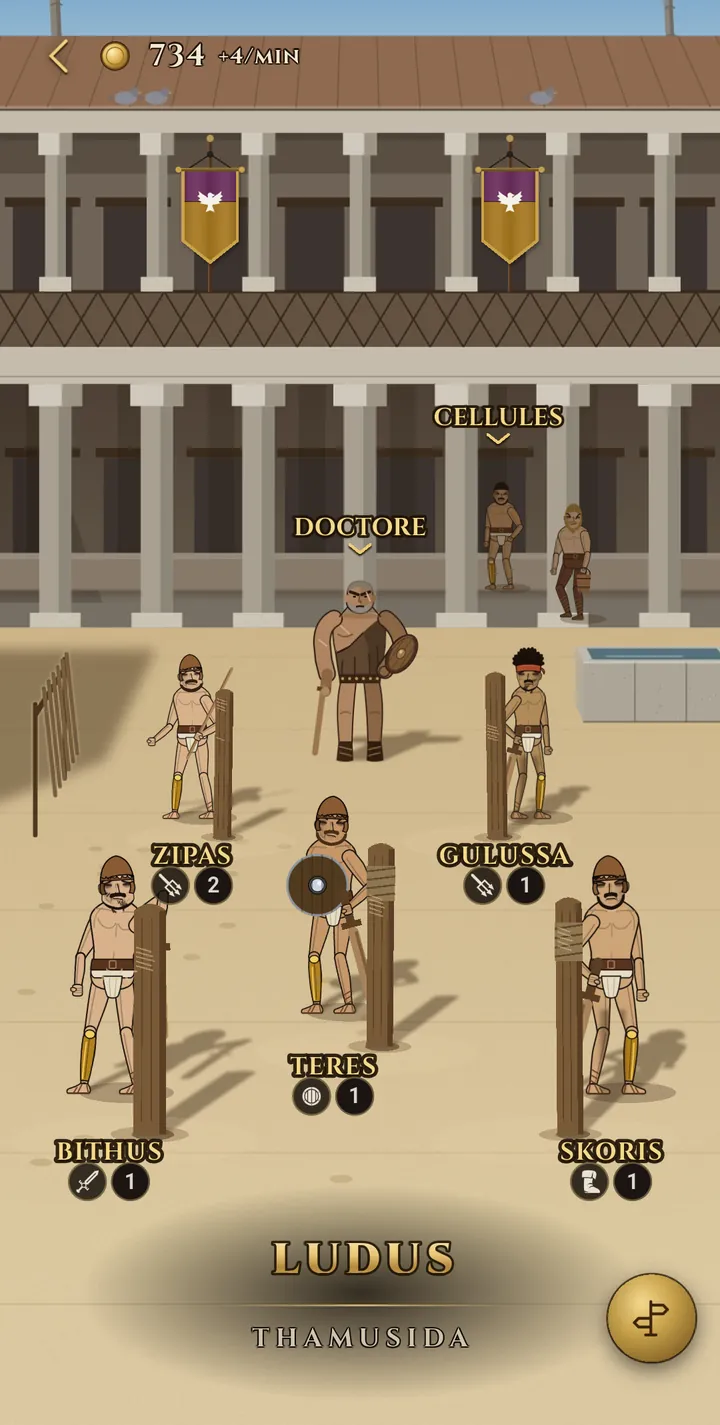
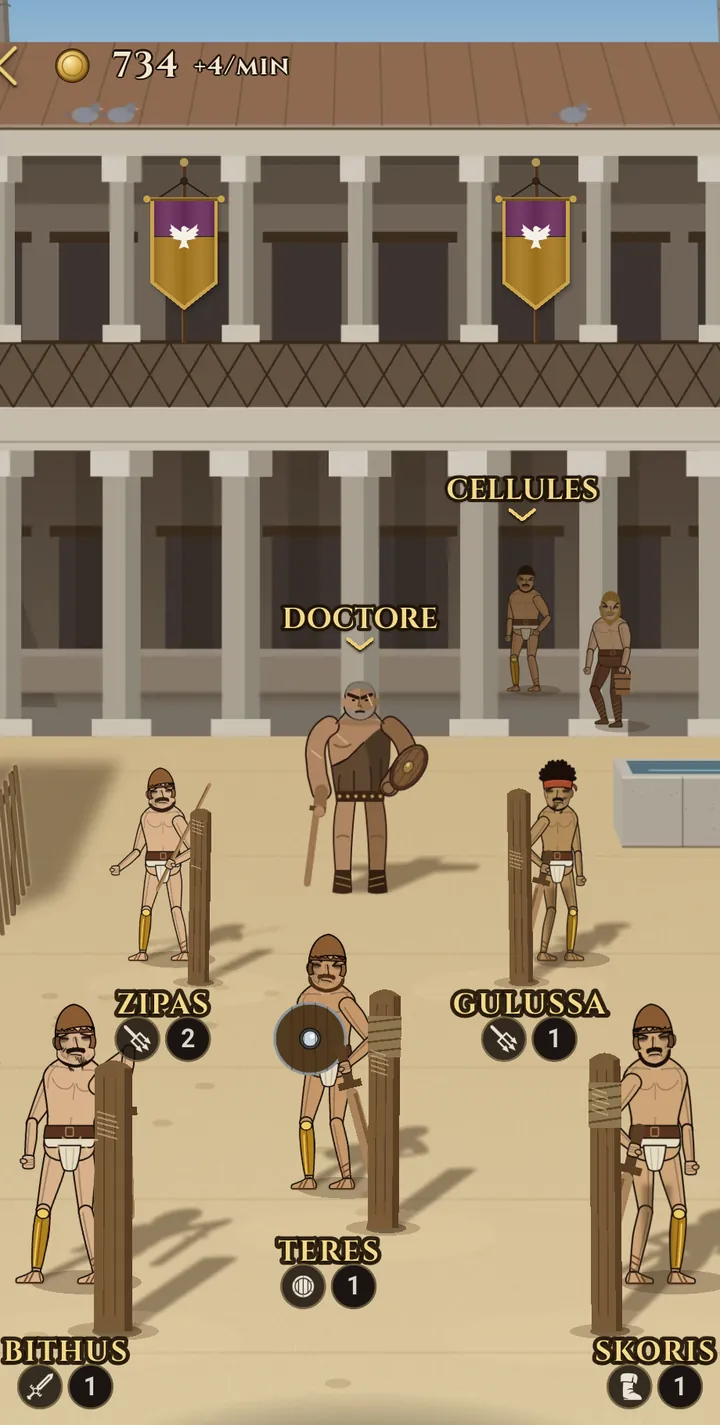
Galerie de la v8 : onze captures legendees, en rangees sur PC
- Legendes courtes remises sous les captures (linguiste, FR/EN/ES) ; alt vide, la legende nomme deja.
- Onze ecrans : titre, etendard, ville, taverne, colisee, preparation, pantheon, combat,
  cour de la maison, marche, carte ; clair et sombre en alternance.
- Colisee pris au depart du tour (messager de l'Empereur) et cour de la maison recadree :
  les titres de lieu du jeu y portent une ombre incoherente, corrigee par un autre lot.
- Sur PC la piste se replie en rangees centrees de 200 px ; ?v= incrementes.

diff --git a/harena/index.html b/harena/index.html
@@ -15,7 +15,7 @@
 <link rel="icon" href="favicon.png" type="image/png">
 <link rel="apple-touch-icon" href="img/apple-touch-icon.png">
 <link rel="preload" href="fonts/Cinzel.ttf" as="font" type="font/ttf" crossorigin>
-<link rel="stylesheet" href="style.css?v=20261011a">
+<link rel="stylesheet" href="style.css?v=20261011b">
 </head>
 <body>
 <a class="lien-evitement" href="#jeu" data-i18n="evitement">Aller au contenu</a>
@@ -81,15 +81,19 @@
   <section class="section galerie" aria-labelledby="titre-galerie">
     <h2 id="titre-galerie" data-i18n="galerieTitre">Dans l'arène</h2>
     <div class="filet-orne" aria-hidden="true"><span></span></div>
-    <!-- Les captures 720×1425 (WebP) : écrans de la v8 pris sur émulateur, barres système retirées. Sans légende : le texte est dans l'alt, quatre écrans montrent déjà leur nom. Une capture absente retire son cadre. -->
+    <!-- Les captures 720×1425 (WebP) : écrans de la v8 pris sur émulateur, barres système retirées, clair et sombre en alternance. Une capture absente retire son cadre. -->
     <ul class="piste">
-      <li><figure><div class="cadre"><img src="img/captures/colisee.webp" width="720" height="1425" loading="lazy" alt="Le colisée" data-i18n-alt="capColisee" onerror="this.closest('li').hidden=true"></div></figure></li>
-      <li><figure><div class="cadre"><img src="img/captures/combat.webp" width="720" height="1425" loading="lazy" alt="Le combat" data-i18n-alt="capCombat" onerror="this.closest('li').hidden=true"></div></figure></li>
-      <li><figure><div class="cadre"><img src="img/captures/ville.webp" width="720" height="1425" loading="lazy" alt="La ville" data-i18n-alt="capVille" onerror="this.closest('li').hidden=true"></div></figure></li>
-      <li><figure><div class="cadre"><img src="img/captures/ludus.webp" width="720" height="1425" loading="lazy" alt="Le Ludus" data-i18n-alt="capLudus" onerror="this.closest('li').hidden=true"></div></figure></li>
-      <li><figure><div class="cadre"><img src="img/captures/preparation.webp" width="720" height="1425" loading="lazy" alt="La préparation" data-i18n-alt="capPreparation" onerror="this.closest('li').hidden=true"></div></figure></li>
-      <li><figure><div class="cadre"><img src="img/captures/marche.webp" width="720" height="1425" loading="lazy" alt="Le marché" data-i18n-alt="capMarche" onerror="this.closest('li').hidden=true"></div></figure></li>
-      <li><figure><div class="cadre"><img src="img/captures/carte.webp" width="720" height="1425" loading="lazy" alt="La carte du tour" data-i18n-alt="capCarte" onerror="this.closest('li').hidden=true"></div></figure></li>
+      <li><figure><div class="cadre"><img src="img/captures/titre.webp" width="720" height="1425" loading="lazy" alt="" onerror="this.closest('li').hidden=true"></div><figcaption data-i18n="capTitre">Écran titre</figcaption></figure></li>
+      <li><figure><div class="cadre"><img src="img/captures/etendard.webp" width="720" height="1425" loading="lazy" alt="" onerror="this.closest('li').hidden=true"></div><figcaption data-i18n="capEtendard">L'étendard</figcaption></figure></li>
+      <li><figure><div class="cadre"><img src="img/captures/ville.webp" width="720" height="1425" loading="lazy" alt="" onerror="this.closest('li').hidden=true"></div><figcaption data-i18n="capVille">La ville</figcaption></figure></li>
+      <li><figure><div class="cadre"><img src="img/captures/taverne.webp" width="720" height="1425" loading="lazy" alt="" onerror="this.closest('li').hidden=true"></div><figcaption data-i18n="capTaverne">La taverne</figcaption></figure></li>
+      <li><figure><div class="cadre"><img src="img/captures/colisee.webp" width="720" height="1425" loading="lazy" alt="" onerror="this.closest('li').hidden=true"></div><figcaption data-i18n="capColisee">Le colisée</figcaption></figure></li>
+      <li><figure><div class="cadre"><img src="img/captures/preparation.webp" width="720" height="1425" loading="lazy" alt="" onerror="this.closest('li').hidden=true"></div><figcaption data-i18n="capPreparation">La préparation</figcaption></figure></li>
+      <li><figure><div class="cadre"><img src="img/captures/pantheon.webp" width="720" height="1425" loading="lazy" alt="" onerror="this.closest('li').hidden=true"></div><figcaption data-i18n="capPantheon">Le panthéon</figcaption></figure></li>
+      <li><figure><div class="cadre"><img src="img/captures/combat.webp" width="720" height="1425" loading="lazy" alt="" onerror="this.closest('li').hidden=true"></div><figcaption data-i18n="capCombat">Le combat</figcaption></figure></li>
+      <li><figure><div class="cadre"><img src="img/captures/ludus.webp" width="720" height="1425" loading="lazy" alt="" onerror="this.closest('li').hidden=true"></div><figcaption data-i18n="capLudus">Le Ludus</figcaption></figure></li>
+      <li><figure><div class="cadre"><img src="img/captures/marche.webp" width="720" height="1425" loading="lazy" alt="" onerror="this.closest('li').hidden=true"></div><figcaption data-i18n="capMarche">Le marché</figcaption></figure></li>
+      <li><figure><div class="cadre"><img src="img/captures/carte.webp" width="720" height="1425" loading="lazy" alt="" onerror="this.closest('li').hidden=true"></div><figcaption data-i18n="capCarte">La carte</figcaption></figure></li>
     </ul>
   </section>
 
@@ -143,7 +147,7 @@
   <p>© 2026 Graine Games</p>
 </footer>
 
-<script src="langue.js?v=20261011a"></script>
-<script src="arene.js?v=20261011a"></script>
+<script src="langue.js?v=20261011b"></script>
+<script src="arene.js?v=20261011b"></script>
 </body>
 </html>

diff --git a/harena/langue.js b/harena/langue.js
@@ -30,13 +30,17 @@
       combatTitre: 'Every turn, <span class="minium">defy</span> the odds',
       combatTexte: 'Before the fight, swap your gladiators in match preparation, then watch them fight, full figure on the sand: health and stamina in numbers, every blow your choice. A mistake costs you; a good read will fill your purse with gold.',
       galerieTitre: 'Inside the arena',
+      capTitre: 'Title screen',
+      capEtendard: 'The banner',
       capVille: 'The city',
+      capTaverne: 'The tavern',
       capColisee: 'The colosseum',
-      capCombat: 'The fight',
       capPreparation: 'Preparation',
+      capPantheon: 'The pantheon',
+      capCombat: 'The fight',
       capLudus: 'The Ludus',
-      capCarte: 'The tour map',
       capMarche: 'The market',
+      capCarte: 'The map',
       testeurTitre: 'Become a tester',
       testeurTexte1: 'HARENA is in testing: your feedback shapes what comes next.',
       testeurTexte2: 'To join the testers, simply write to the studio.',
@@ -127,13 +131,17 @@
       combatTitre: 'En cada turno, <span class="minium">desafía</span> las certezas',
       combatTexte: 'Antes del combate, cambia a tus gladiadores en la preparación del encuentro y luego míralos pelear sobre la arena, de cuerpo entero: vida y aguante en cifras, golpes a tu elección. Un error se paga; una buena lectura llenará tu bolsa de oro.',
       galerieTitre: 'En la arena',
+      capTitre: 'Pantalla de título',
+      capEtendard: 'El estandarte',
       capVille: 'La ciudad',
+      capTaverne: 'La taberna',
       capColisee: 'El coliseo',
-      capCombat: 'El combate',
       capPreparation: 'La preparación',
+      capPantheon: 'El panteón',
+      capCombat: 'El combate',
       capLudus: 'El Ludus',
-      capCarte: 'El mapa del recorrido',
       capMarche: 'El mercado',
+      capCarte: 'El mapa',
       testeurTitre: 'Hazte probador',
       testeurTexte1: 'HARENA está en pruebas: tu opinión da forma a lo que viene.',
       testeurTexte2: 'Para unirte a los probadores, escribe al estudio.',

diff --git a/harena/confidentialite.html b/harena/confidentialite.html
@@ -12,7 +12,7 @@
 <meta property="og:image" content="https://graine-games.github.io/harena/img/harena-512.png">
 <link rel="icon" href="favicon.png" type="image/png">
 <link rel="apple-touch-icon" href="img/apple-touch-icon.png">
-<link rel="stylesheet" href="style.css?v=20261011a">
+<link rel="stylesheet" href="style.css?v=20261011b">
 </head>
 <body>
 <a class="lien-evitement" href="#contenu" data-i18n="evitement">Aller au contenu</a>
@@ -137,6 +137,6 @@
   <p>© 2026 Graine Games</p>
 </footer>
 
-<script src="langue.js?v=20261011a"></script>
+<script src="langue.js?v=20261011b"></script>
 </body>
 </html>

diff --git a/harena/style.css b/harena/style.css
@@ -369,7 +369,10 @@ main {
 }
 @media (min-width: 980px) {
   .atouts { grid-template-columns: repeat(3, 1fr); }
-  .piste > li { flex: 1 1 0; max-width: 210px; }
+  /* onze captures : sur PC la piste se replie en rangees centrees au lieu de defiler */
+  .piste { flex-wrap: wrap; justify-content: center; overflow: visible; row-gap: 28px; }
+  .piste > :first-child, .piste > :last-child { margin: 0; }
+  .piste > li { flex: 0 0 200px; }
   .section.galerie { max-width: 1480px; }   /* la galerie vend le jeu : plus large que le texte */
   .section { padding-top: 96px; padding-bottom: 96px; }
 }
